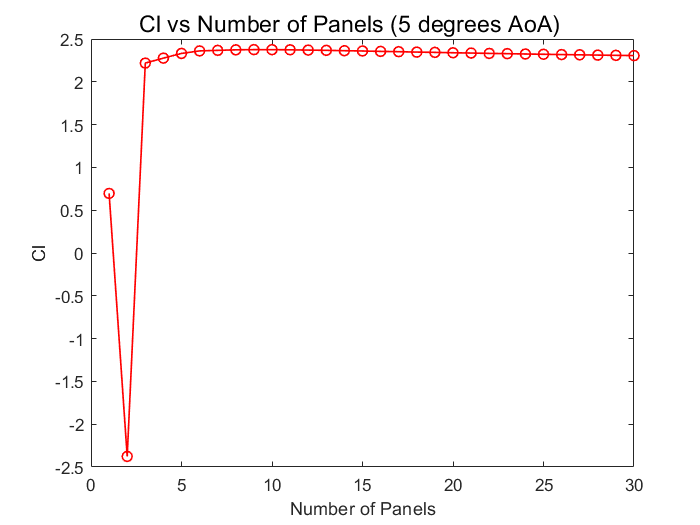
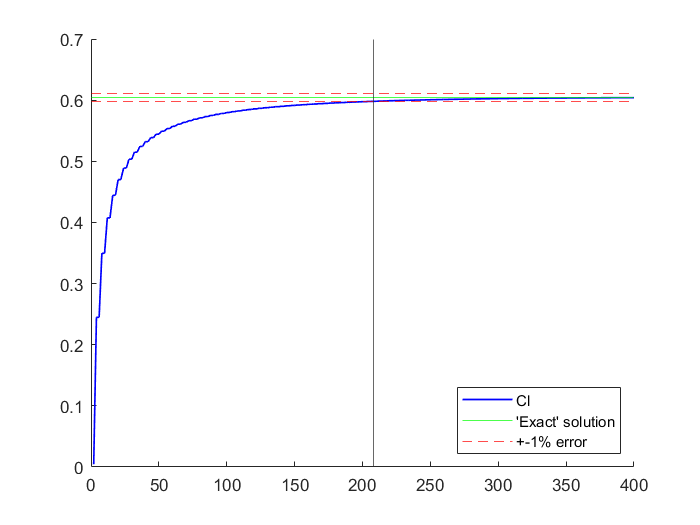
pretty lines

diff --git a/Part 1/Lab3_task2.m b/Part 1/Lab3_task2.m
@@ -5,7 +5,7 @@ alpha = 5;
 
 % Task 2.1
 
-panels_total = linspace(2,400,200);
+panels_total = 1:200;
 % 4:2:200;
 
 
@@ -35,11 +35,17 @@ Cl_final = Cl(end);
 Cl_target = 0.99*Cl_final;
 
 figure()
-plot(panels_total, Cl)
 hold on;
-yline(Cl_target)
-hold on;
-xline(Panel99)
+panels_total = panels_total*2;
+plot(panels_total, Cl, Color='b', LineWidth=1)
+    % 1% error bars
+    exact = Cl(end);
+    yline(exact, Color='g',LineWidth=.5)
+    yline(exact + exact/100, Color='r',LineWidth=.5, linestyle='--')
+    yline(exact - exact/100, Color='r',LineWidth=.5, LineStyle='--')
+    [~, idx] = min(abs(Cl - (exact - exact/100)));
+xline(panels_total(idx))
+legend("Cl", "'Exact' solution", "+-1% error",'Location','southeast')
 hold off;
 
 % Task 2.2
